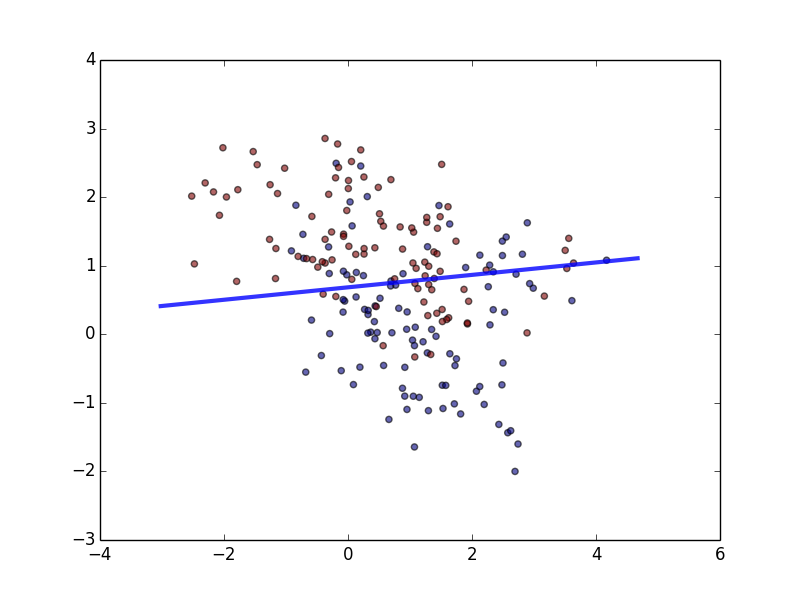
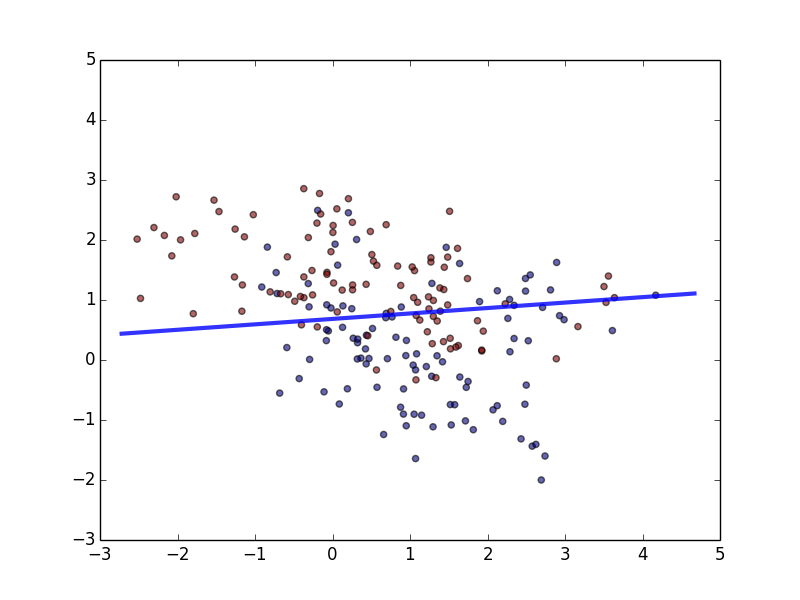
fix lr figure

diff --git a/section2.py b/section2.py
@@ -6,8 +6,8 @@
 
 import matplotlib.pyplot as plt
 import numpy as np
-data = np.loadtxt('mixture_simulation_data.txt', skiprows = 1)
-means = np.loadtxt('means.txt')
+data = np.loadtxt('./Data/mixture_simulation_data.txt', skiprows=1)
+means = np.loadtxt('./Data/means.txt')
 X = data[:,:2]
 y = data[:,2]
 
@@ -28,9 +28,11 @@ def linear_regression(X, y):
     plt.scatter(X[:,0], X[:,1], c=y, alpha=.6)
     line = lambda x: ((.5 - clf.intercept_ - clf.coef_[0] * x) 
                       / clf.coef_[1])
-    line_x = [min(X[:,0])-.5, max(X[:,0]+.5)]
+    line_x = [min(X[:,0])-.2, max(X[:,0]+.5)]
     line_y = map(line, line_x)
     plt.plot(line_x, line_y, color='b', alpha=.8, linewidth=3)
+    plt.xlim([-3,5])
+    plt.ylim([-3,5])
     plt.show()
     print '(beta_0) = ' + str(clf.intercept_)
     print '(beta_1, beta_2) = ' + str(clf.coef_)
